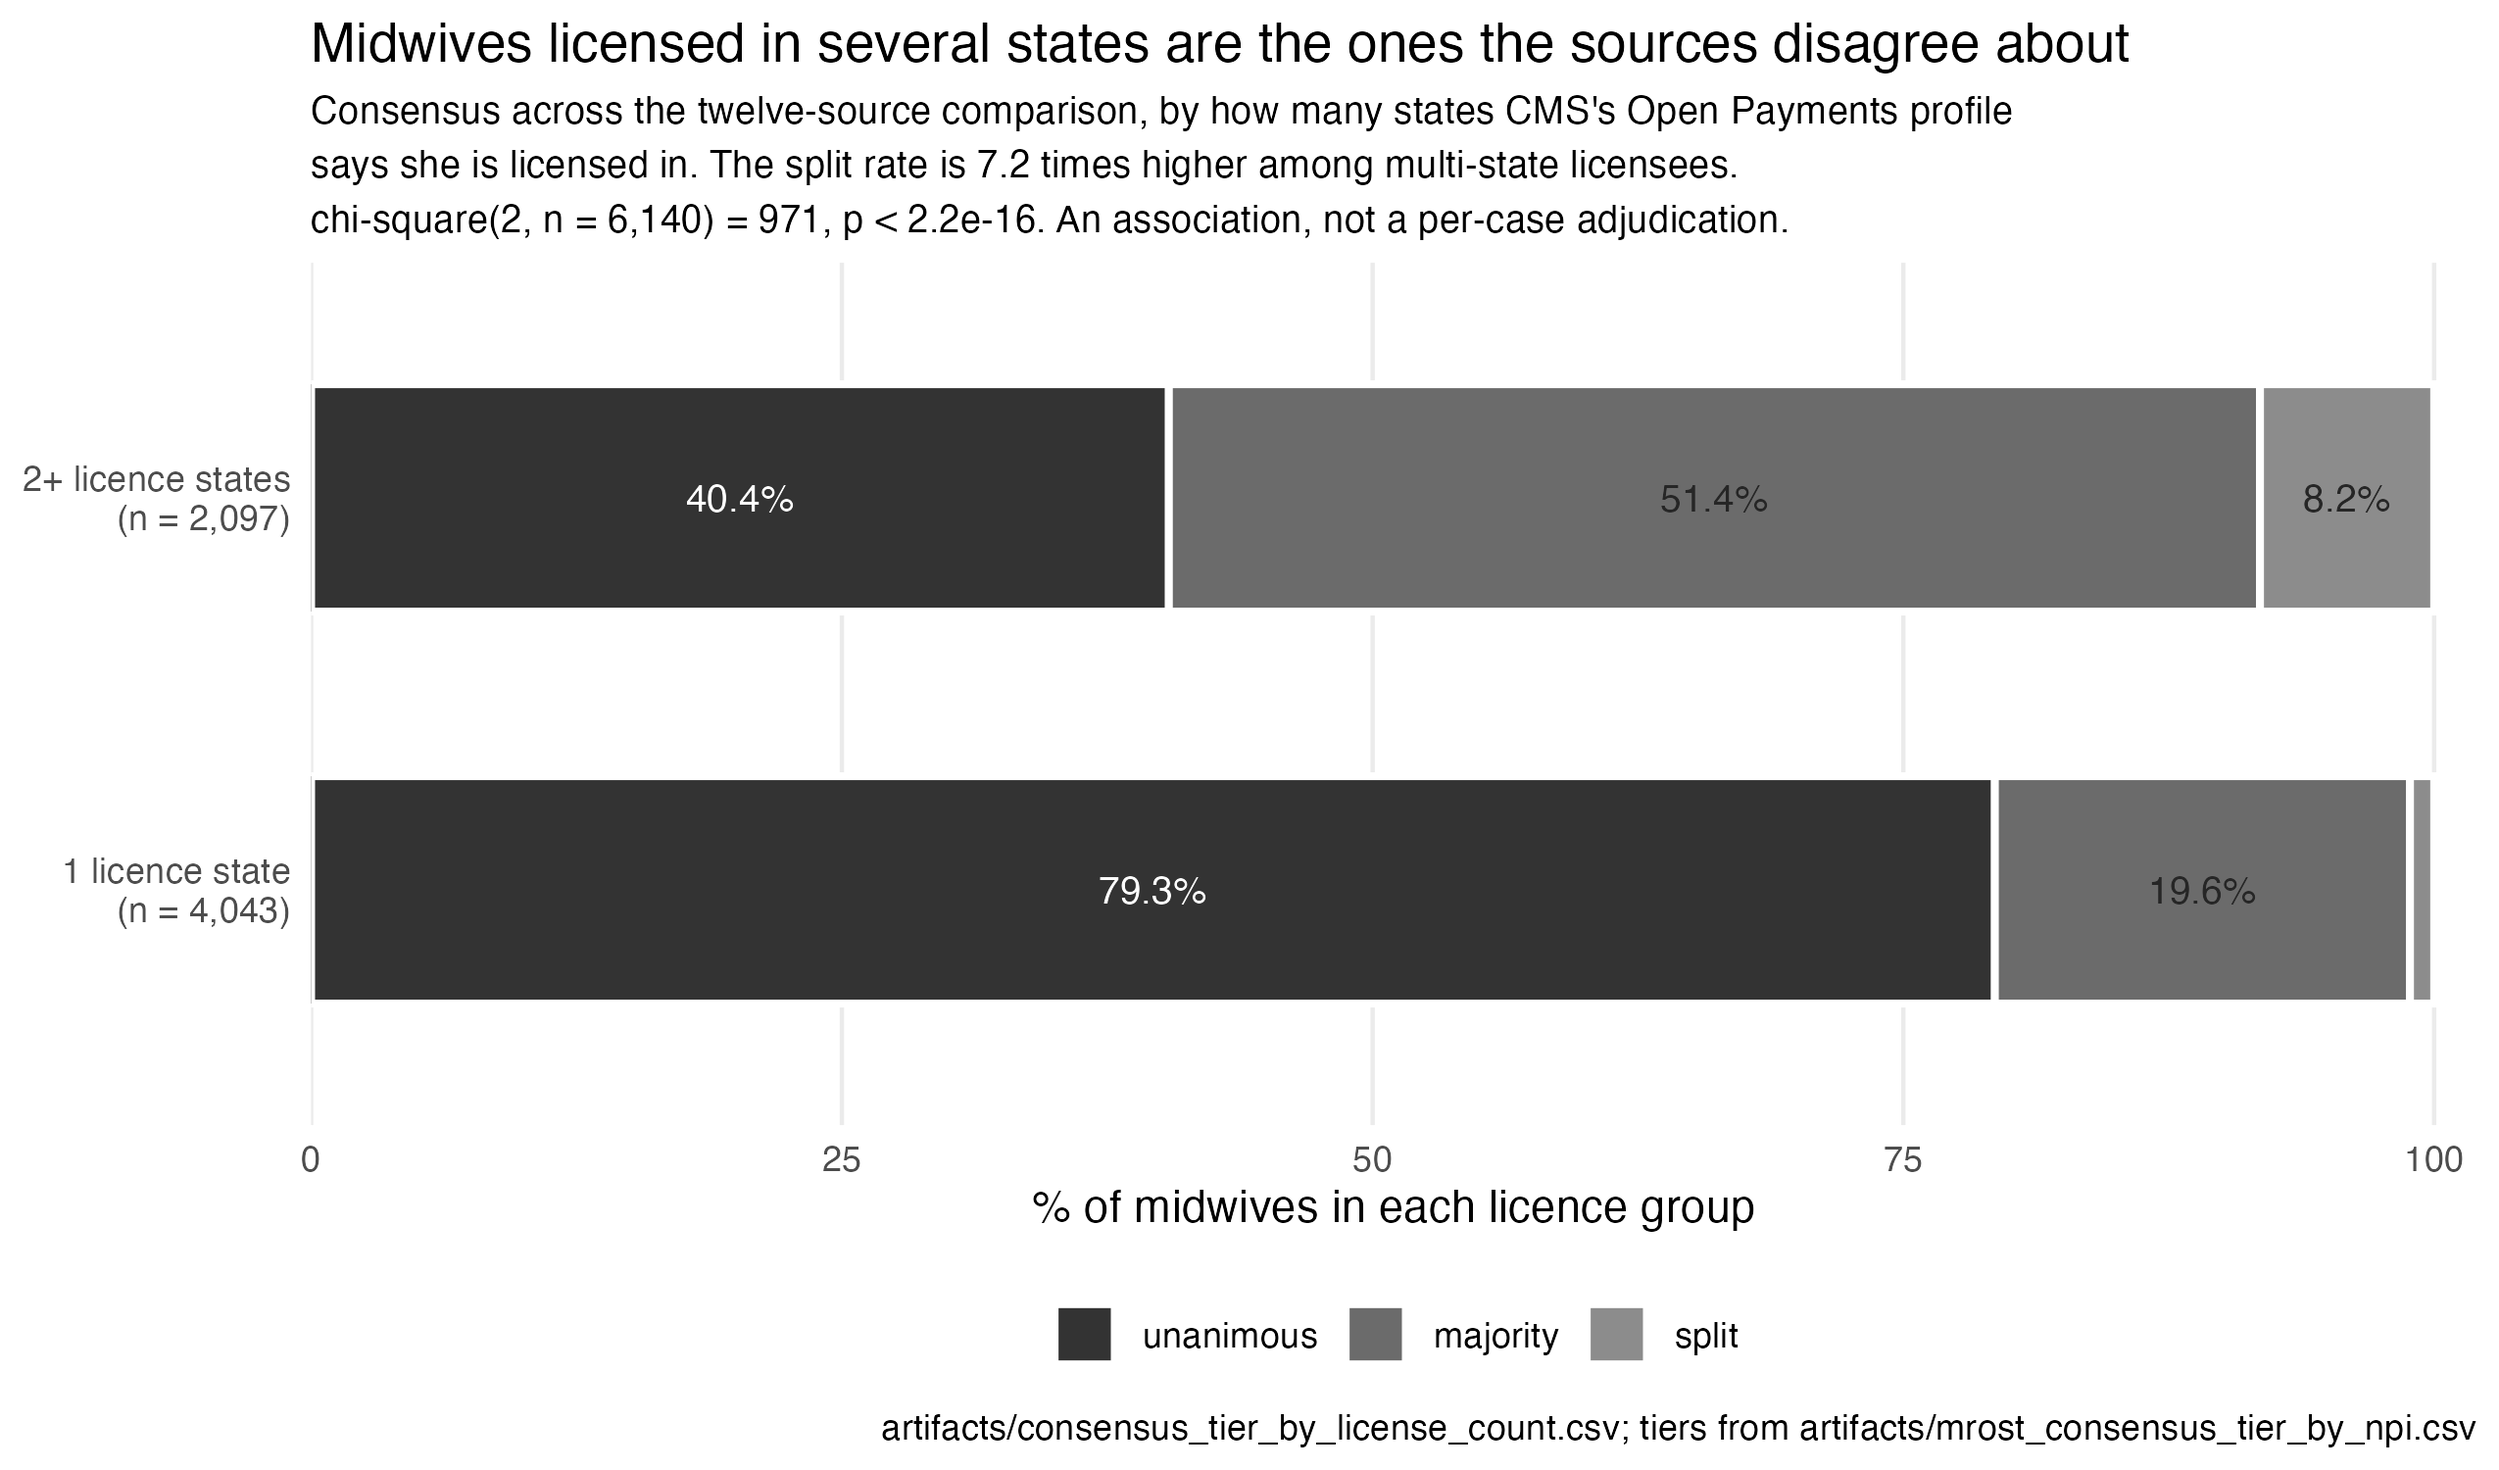
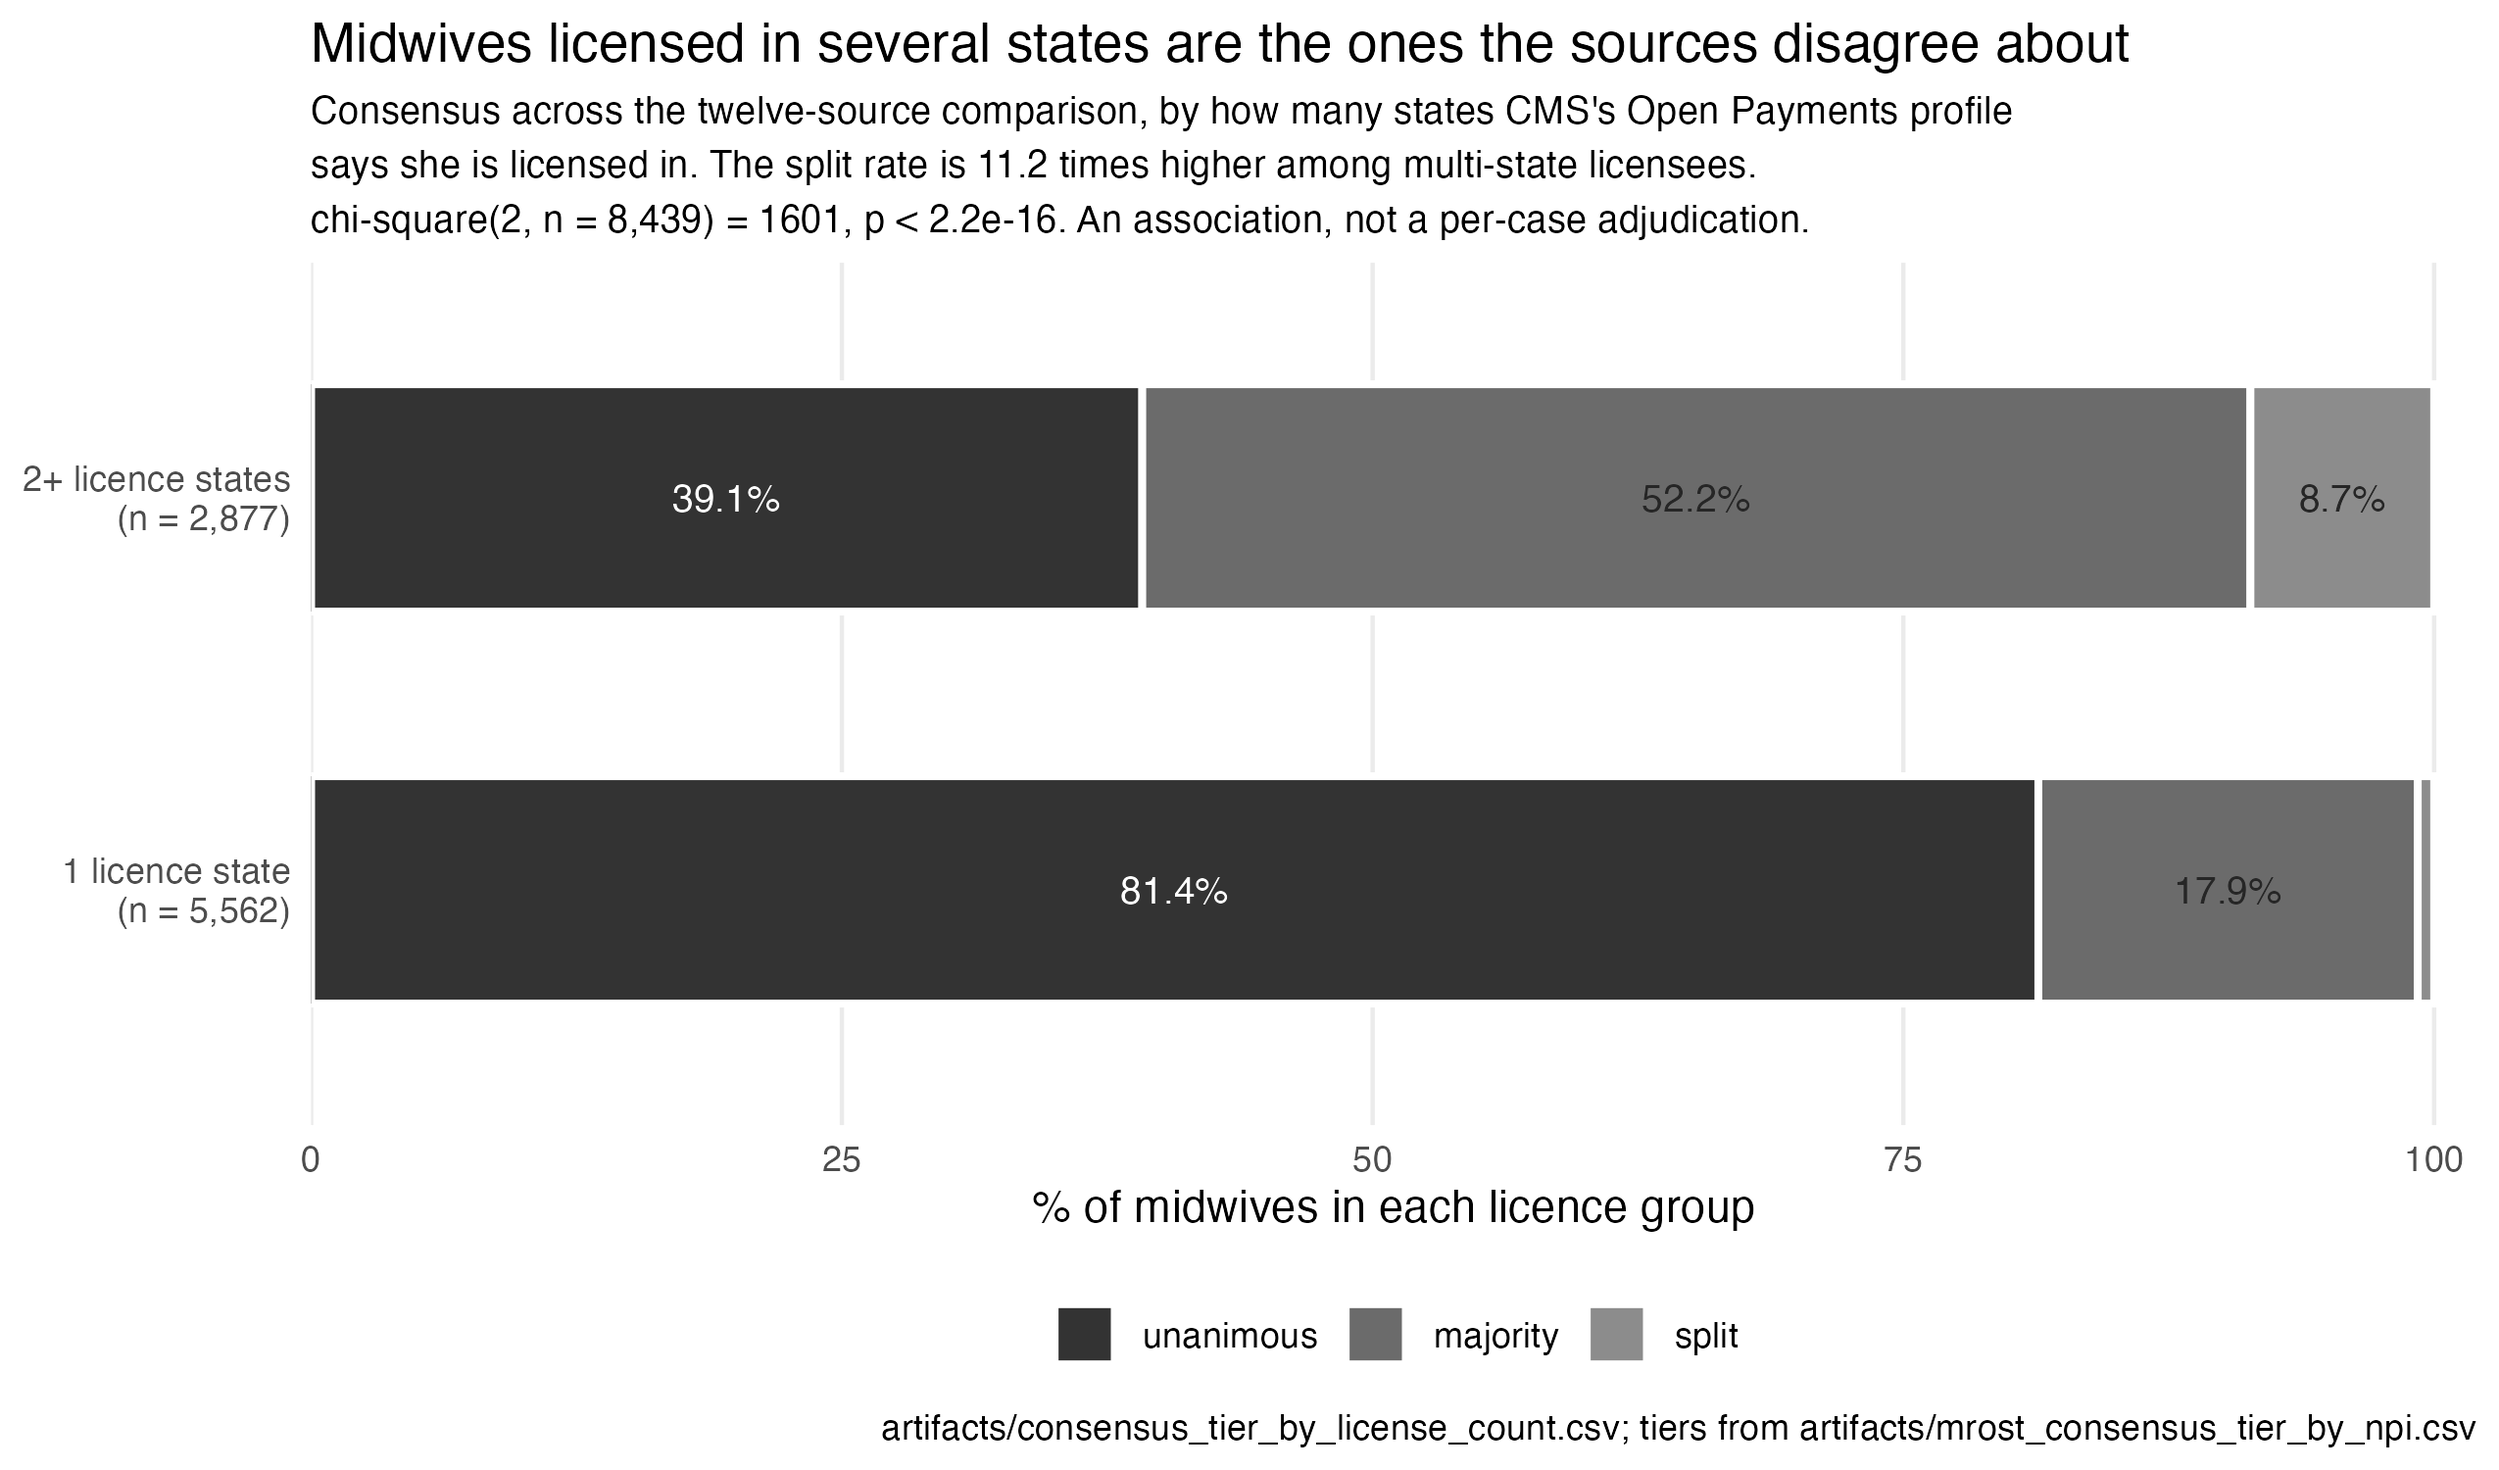
Rebuild the licence figure at the original Open Payments vintage, and catch the wrong cohort
The licence-count consensus figure had been rebuilt against the only Open
Payments profile publication on archival storage -- January 2025, 1,530,413
rows -- while the analysis it was reproducing cited 1.69 million. The
publication the original actually used is a public download, and its URL was
already recorded in harvest_open_payments_profile.py: PHPRFL_P06302026_06032026,
fetched 2026-11-13, 1,697,028 rows. The "1.69 million" of the vignette now
matches to the row.

Rebuilt against it, the licence finding strengthens rather than shifts:
8,497 of 16,898 cohort midwives carry a profile, 2,887 (34.0%) are licensed in
two or more states, and midwives with two or more licence states are 39.1%
unanimous with an 8.7% split rate against 81.4% / 0.8% for single-state
licensees -- 11.2 times higher, chi-square(2, n = 8,439) = 1,601.0.

THE COUNT IS NOT A REPRODUCTION, AND THE REASON IS A DEFECT WORTH MORE THAN
THE FIGURE. 8,497-of-16,898 is not the original's 8,411-of-16,775: it is the
right analysis on the wrong cohort. artifacts/amcb_npi_linkage_FROZEN.csv on
this machine has sha256 dbcc76f4..., 54 columns and 16,898 members, while the
tracked manifest beside it describes the 2026-10-22 reconciled freeze --
sha256 9f224007..., 60 columns, 22,357 rows, 16,775 members. The multi-state
licence RATE was never affected (34.0% against 34.1% at both vintages), and
the levels move with the tier source, not the licence data.
[…]

diff --git a/docs/VIGNETTE_STATE_SOURCE_AUDIT_2026-11-04.md b/docs/VIGNETTE_STATE_SOURCE_AUDIT_2026-11-04.md
@@ -165,32 +165,66 @@ place?
 
 The audit had never had a source that captures multi-state licensure
 *directly* — until a second look at a file already being read for something
-else. CMS's Open Payments Covered Recipient Profile Supplement — 1.69 million
+else. CMS's Open Payments Covered Recipient Profile Supplement — 1,697,028
 rows, already mined for name and address fields — carries five columns of
 licensed states per provider, entirely independent of every practice-location
-source already in the audit. Matched against the cohort: 8,411 of 16,775
-midwives (50.1%) have a profile at all, and of those, 2,865 — better than one
-in three — are licensed in two or more states.
+source already in the audit. Matched against the cohort: 8,497 of 16,898
+midwives (50.3%) have a profile at all, and of those, 2,887 — better than one
+in three — are licensed in two or more states. *(Those counts are computed on
+a superseded cohort freeze and are not comparable to the 8,411 of 16,775 first
+published; the rate is. See the note below.)*
 
 Cross that against the per-NPI consensus tiers and the pattern is stark.
-Midwives licensed in exactly one state are **79.3% unanimous**, with a 1.1%
+Midwives licensed in exactly one state are **81.4% unanimous**, with a 0.8%
 split rate — about what ordinary data noise looks like. Midwives licensed in
-two or more states are **40.4% unanimous**, with an **8.2% split rate**,
-**7.2 times higher**. χ²(2, n = 6,140) = 970.7, p = 1.7×10⁻²¹¹. That is not
-a subtle effect.
+two or more states are **39.1% unanimous**, with an **8.7% split rate**,
+**11.2 times higher**. χ²(2, n = 8,439) = 1,601.0; the p-value is below the
+smallest positive double, log₁₀ p = −347.6. That is not a subtle effect.
 
-*(Rebuilt 2026-11-12 by `analyze_consensus_tier_by_license_count.R`. The
-version published on 2026-11-04 read 92.4% / 2.4% against 59.9% / 22.1%,
-χ²(2, n = 8,312) = 1,353.1, a ratio of about nine. Both are real; they use
-different consensus tiers. The published version scored tiers across the ten
-sources of this audit, the rebuild across the twelve of
+*(Rebuilt 2026-11-13 by `analyze_consensus_tier_by_license_count.R` against
+the same Open Payments vintage the original used — the June 2026 profile
+publication, `OP_CVRD_RCPNT_PRFL_SPLMTL_P06302026_06032026.csv`, 1,697,028
+rows, downloaded 2026-11-13 after the first rebuild had only the January 2025
+publication (1,530,413 rows) to work from. **The vintage gap is closed; the
+difference from the original is not.** Three versions now exist:*
+
+| run | licence vintage | tier source | 1 state | 2+ states | χ² (2 df) |
+|---|---|---|---:|---:|---:|
+| published 2026-11-04 | Jun 2026 | ten-source audit | 92.4% / 2.4% | 59.9% / 22.1% | 1,353.1 (n = 8,312) |
+| rebuilt 2026-11-12 | Jan 2025 | twelve-source | 79.3% / 1.1% | 40.4% / 8.2% | 970.7 (n = 6,140) |
+| rebuilt 2026-11-13 | Jun 2026 | twelve-source | 81.4% / 0.8% | 39.1% / 8.7% | 1,601.0 (n = 8,439) |
+
+*(unanimous % / split %.) The multi-state licence **rate** was never the
+problem: 34.0% against 34.1% at both vintages. Two things still differ from
+the original, and neither is the licence file:*
+
+*First, the **tier source**. The published version scored tiers across the ten
+sources of this audit, both rebuilds across the twelve of
 `compare_all_sources_mysteryroster.R`, and those two audits assign tiers
-differently — the open conflict recorded at the end of this document. The
-licence data also comes from an earlier Open Payments vintage: the January
-2025 publication available here matches 6,188 midwives against the 8,411 the
-later vintage matched, while the multi-state **rate** reproduces almost
-exactly, 34.0% against 34.1%. Direction, magnitude and significance survive
-every one of those changes; the levels move with the tier source.)*
+differently — the open conflict recorded at the end of this document. That is
+what moves the levels.*
+
+*Second — and this is a defect, not a difference — **both rebuilds ran against
+a superseded cohort freeze.** `artifacts/amcb_npi_linkage_FROZEN.csv` on this
+machine has sha256 `dbcc76f4…`, 54 columns and 16,898 cohort members, while
+the tracked manifest sitting beside it describes the 2026-10-22 reconciled
+freeze: sha256 `9f224007…`, 60 columns, 22,357 rows, **16,775** members, from
+run `reconcile_ab_20261022T134500_remove_fuzzy_surname_matching`. The original
+analysis used that reconciled freeze; the rebuilds used its predecessor. So
+8,497-of-16,898 is **not** a reproduction of 8,411-of-16,775 — it is the right
+analysis on the wrong cohort, and the gap is in the same direction the extra
+123 members predict. Every copy of the freeze on this machine is the
+superseded one, so the correct cohort cannot be restored here; it is the same
+blocker as the A4/A5 contract failures (see
+`docs/ci-a4-a5-local-failures.md`).*
+
+*`verify_linkage_freeze()` has existed for exactly this check and was not
+being called by this producer. It is now, so the override is explicit
+(`ALLOW_FREEZE_SHA256`) and the freeze's sha256 is recorded in the artifact's
+provenance sidecar. **94 of the 100 scripts that read the freeze still do not
+call it** — only the six Trilliant producers do — so the same silent
+substitution is possible elsewhere in this repository and is not yet
+closed.*
 
 This doesn't prove any one specific disagreement is genuine multi-state
 practice rather than a data error — it's a population-level association, not
@@ -202,7 +236,7 @@ cross-source disagreement in this cohort, not an edge case. The sources
 weren't all wrong about the same midwife. In nearly a quarter of split cases,
 they were each right about a different place she practices.
 
-![Consensus tier by licence count as 100% stacked bars: midwives licensed in one state are 79.3% unanimous and 1.1% split, while those licensed in two or more are 40.4% unanimous and 8.2% split.](figures/consensus_tier_by_license_count.png)
+![Consensus tier by licence count as 100% stacked bars: midwives licensed in one state are 81.4% unanimous and 0.8% split, while those licensed in two or more are 39.1% unanimous and 8.7% split.](figures/consensus_tier_by_license_count.png)
 
 ## The source that could never be included, and now can
 
@@ -378,10 +412,14 @@ left in place rather than deleted because the analyses were real when run:
   an error in either version** — see "Why the two versions differ" below. Both
   definitions are now computed and stored side by side in that artifact, so
   the published figures stay checkable rather than being quietly replaced.
-- ~~The **licence-count consensus split**.~~ **Resolved 2026-11-12.** The CMS
-  source was located on archival storage
-  (`PHPRFL_P01302025_01212025.zip`, January 2025 publication, 1,530,413 rows)
-  and `extract_open_payments_profile_supplement.R` re-run against it, so
+- ~~The **licence-count consensus split**.~~ **Resolved 2026-11-12, and
+  re-run at the original vintage 2026-11-13.** The CMS source was first
+  located on archival storage (`PHPRFL_P01302025_01212025.zip`, January 2025
+  publication, 1,530,413 rows); the publication the original analysis actually
+  used was then downloaded from `download.cms.gov`
+  (`PHPRFL_P06302026_06032026`, June 2026, 1,697,028 rows — the "1.69 million"
+  of the text above, matching to the row). `extract_open_payments_profile_supplement.R`
+  was re-run against it, so
   `cohort_midwives_open_payments_profile_supplement.csv` exists again with a
   provenance sidecar naming the source file by SHA-256. The per-NPI consensus
   tier — computed inside `compare_all_sources_mysteryroster.R` and previously
@@ -396,7 +434,9 @@ left in place rather than deleted because the analyses were real when run:
   it needs the CMS publication, and
   `extract_open_payments_profile_supplement.R` now takes its path from the
   `OP_PROFILE_SUPPLEMENT` environment variable so no machine-specific path is
-  baked into the code. The aggregate it feeds
+  baked into the code. That publication is a public download, and the URL is
+  recorded in `harvest_open_payments_profile.py`, so the condition is a step
+  to run rather than a dependency on this machine. The aggregate it feeds
   (`artifacts/consensus_tier_by_license_count.csv`) is tracked, carries no
   person-level column, and is what the figure actually reads.
 - The **184-NPI persistence cohort**, as originally computed. **Addressed

diff --git a/docs/ci-a4-a5-local-failures.md b/docs/ci-a4-a5-local-failures.md
@@ -46,6 +46,43 @@ on `sum(active_unmatched_by_reason) == active_unmatched_n`, preceded by four
 `Unknown or uninitialised column: match_status` warnings — the same missing
 column, surfacing in a third place.
 
+## Confirmed independently, 2026-11-13, by the freeze's own manifest
+
+The first pass of this investigation inferred the staleness from a missing
+column. There is stronger evidence sitting beside the file: its own tracked
+manifest, `artifacts/amcb_npi_linkage_FROZEN.csv.manifest.json`, records what
+the freeze is supposed to be, and the file on this machine is not it.
+
+| | manifest says | file on disk |
+|---|---|---|
+| sha256 | `9f224007d99ac91d…` | `dbcc76f420ac9be8…` |
+| rows | 22,357 | 22,309 |
+| columns | 60 | 54 |
+| `cohort_members` | **16,775** | **16,898** |
+| run | `reconcile_ab_20261022T134500_remove_fuzzy_surname_matching` | — |
+
+So the freeze on disk is the predecessor of the 2026-10-22 reconciliation
+that removed fuzzy surname matching (17,028 → 16,775, NEWS 2026-10-22). Every
+copy on this machine is the same `dbcc76f4` file — checked in
+`~/midwifery-osmde`, `~/mw-truth` and two `Broken_Mac_Rescue` trees — so the
+reconciled freeze cannot be restored here, only regenerated.
+
+### The gate that would have caught it, and the 94 scripts that skip it
+
+`verify_linkage_freeze()` in `R/lib/cohort_definitions.R` does exactly this
+comparison and refuses a freeze its manifest does not describe. **94 of the
+100 scripts that read the freeze never call it** — only the six Trilliant
+producers do. That is how
+`artifacts/cohort_midwives_open_payments_profile_supplement.csv` came to be
+rebuilt on 16,898 members and reported against a published figure computed on
+16,775: not a wrong calculation, a wrong cohort, silently. The guard was added
+to `extract_open_payments_profile_supplement.R` on 2026-11-13, so that
+producer now refuses unless `ALLOW_FREEZE_SHA256` is set deliberately. **The
+other 93 are not fixed**, and sweeping them is a separate change: the guard
+has to be added one producer at a time, because each has to be re-run and its
+artifact re-checked afterwards, and some legitimately analyse a pinned
+historical freeze.
+
 ## Why CI is unaffected
 
 | check | behaviour without the freeze (CI) |
